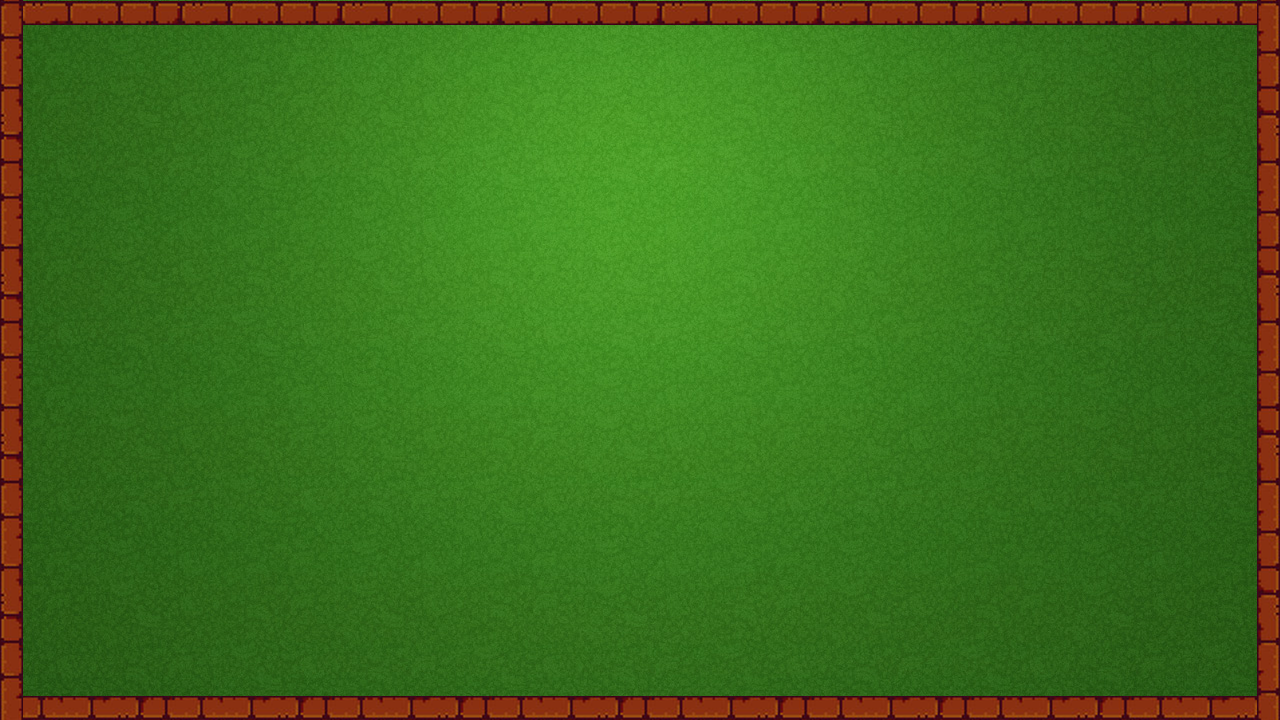
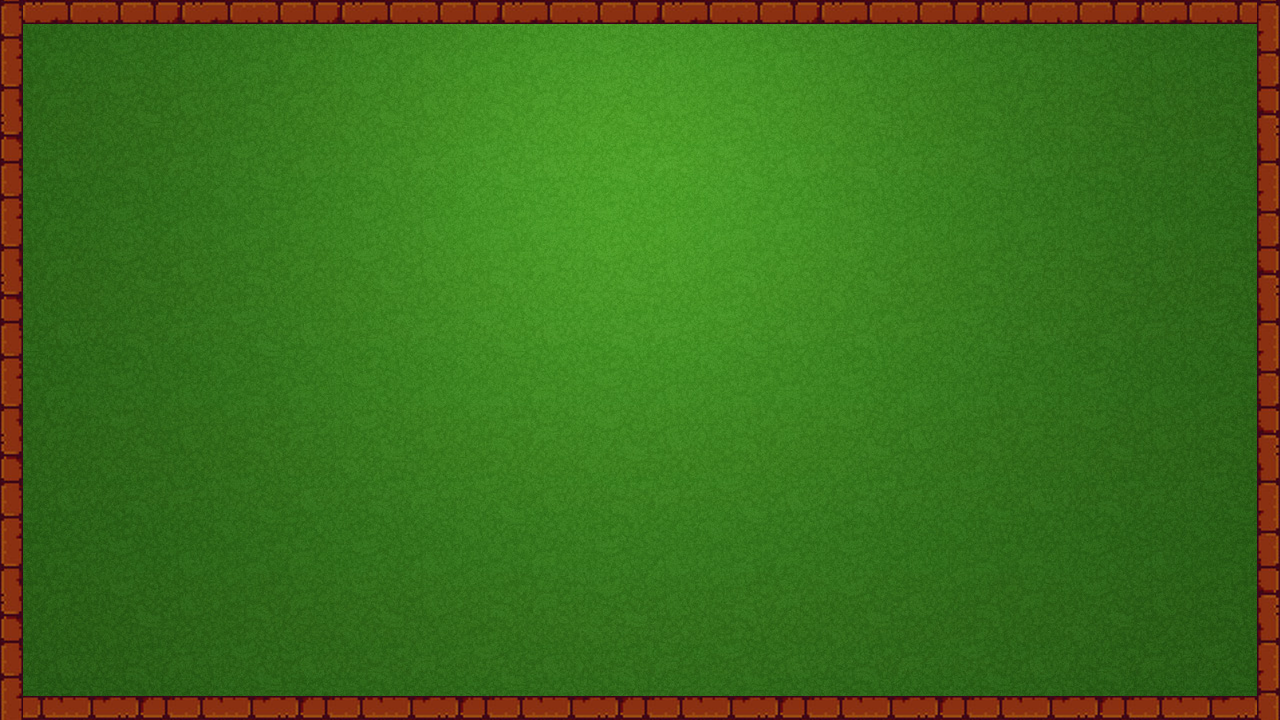
Reverted some graphics changes

Changed region(s): [[0.0312, 0.0, 0.9688, 0.0611]]

diff --git a/src/game/game.cpp b/src/game/game.cpp
@@ -48,11 +48,12 @@ Game::~Game()
  *******************************************************************************/
 float Game::convertGLXCoordinate(int x)
 {
-  //float fscaler = (x - 1) * (4.0717* pow(tankGame->getWidth(), -1.031));
-  //GLfloat x_gl = -1.75 + (fscaler);
-  //return x_gl;
-  float tempx = (2.0 * x + 1.0) / tankGame->getWidth() - 1.0;
-  return tempx * 2;
+  float fscaler = (x - 1) * (4.0717* pow(tankGame->getWidth(), -1.031));
+  GLfloat x_gl = -1.75 + (fscaler);
+  
+  //float tempx = (2.0 * x + 1.0) / tankGame->getWidth() - 1.9;
+  //return tempx;
+   return x_gl;
 }
 
 
@@ -67,11 +68,11 @@ float Game::convertGLXCoordinate(int x)
  *******************************************************************************/
 float Game::convertGLYCoordinate(int y)
 {
-  //float fscaler =  (y - 1) * (3.1923* pow(tankGame->getHeight(), -1.08));
-  //GLfloat y_gl = 0.75 - (fscaler);
-  //return y_gl;
-  float tempy = (2.0 * y + 1.0) / tankGame->getHeight() - 1.0;
-  return tempy * 1.5;
+  float fscaler =  (y - 1) * (3.1923* pow(tankGame->getHeight(), -1.08));
+  GLfloat y_gl = 0.75 - (fscaler);
+  return y_gl;
+  //float tempy = (2.0 * y + 1.0) / tankGame->getHeight() - 1.925;
+  //return tempy;
 }
 
 
@@ -301,9 +302,9 @@ void Game::initGameState(std::shared_ptr<Settings> setting)
   //set globals
   TimerEvent::idle_speed = settings->getIdleSpeed();
   //Drawable::xscalar = (3.75/mapLoader->width)/.32;
-  Drawable::xscalar = (1.0/mapLoader->width);
+  Drawable::xscalar = 1.85/mapLoader->width;
   //Drawable::yscalar = Drawable::xscalar;
-  Drawable::yscalar = (1.0/mapLoader->height);
+  Drawable::yscalar = 1.25/mapLoader->height;
   
   //Only load textures if we're showing UI
   if (settings->showUI()){

diff --git a/src/ui/Crate.cpp b/src/ui/Crate.cpp
@@ -35,19 +35,28 @@ Crate::Crate( GLfloat x_coor, GLfloat y_coor, int actx, int acty )
 * *****************************************************************************/
 void Crate::draw(int x, int y)
 {
+    float txscalar = xscalar;
+    float tyscalar = yscalar;
+
+    if (xscalar > yscalar){
+      txscalar = tyscalar;
+    }else{
+      tyscalar = txscalar;
+    }
+
     glEnable(GL_TEXTURE_2D);
     glPushMatrix();
     glTranslatef(screen_x, screen_y, -5.0f);
     glBindTexture(GL_TEXTURE_2D, gameTex[tex]);
     glBegin(GL_QUADS);
     glTexCoord2f(0.0f, 0.0f);
-    glVertex3f(-0.12f * xscalar, -0.14f * yscalar,  1.0f);
+    glVertex3f(-1.0f * txscalar, -1.0f * tyscalar,  1.0f);
     glTexCoord2f(1.0f, 0.0f);
-    glVertex3f( 0.12f * xscalar, -0.14f * yscalar,  1.0f);
+    glVertex3f( 1.0f * txscalar, -1.0f * tyscalar,  1.0f);
     glTexCoord2f(1.0f, 1.0f);
-    glVertex3f( 0.12f * xscalar,  0.14f * yscalar,  1.0f);
+    glVertex3f( 1.0f * txscalar,  1.0f * tyscalar,  1.0f);
     glTexCoord2f(0.0f, 1.0f);
-    glVertex3f(-0.12f * xscalar,  0.14f * yscalar,  1.0f);
+    glVertex3f(-1.0f * txscalar,  1.0f * tyscalar,  1.0f);
     glEnd();
     glPopMatrix();
     glDisable(GL_TEXTURE_2D);
